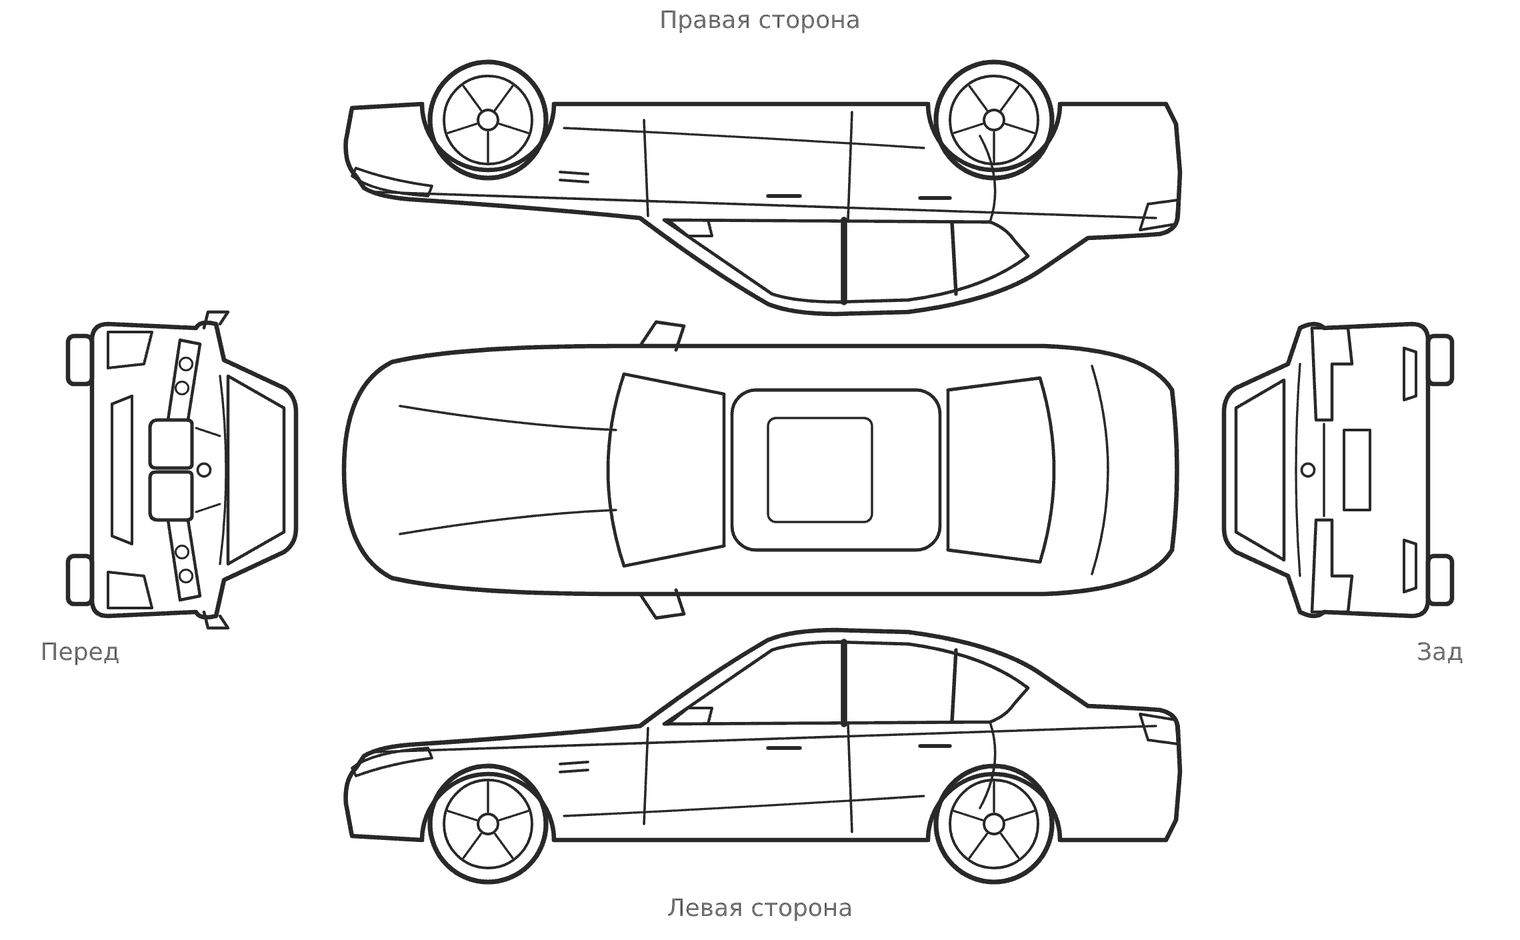
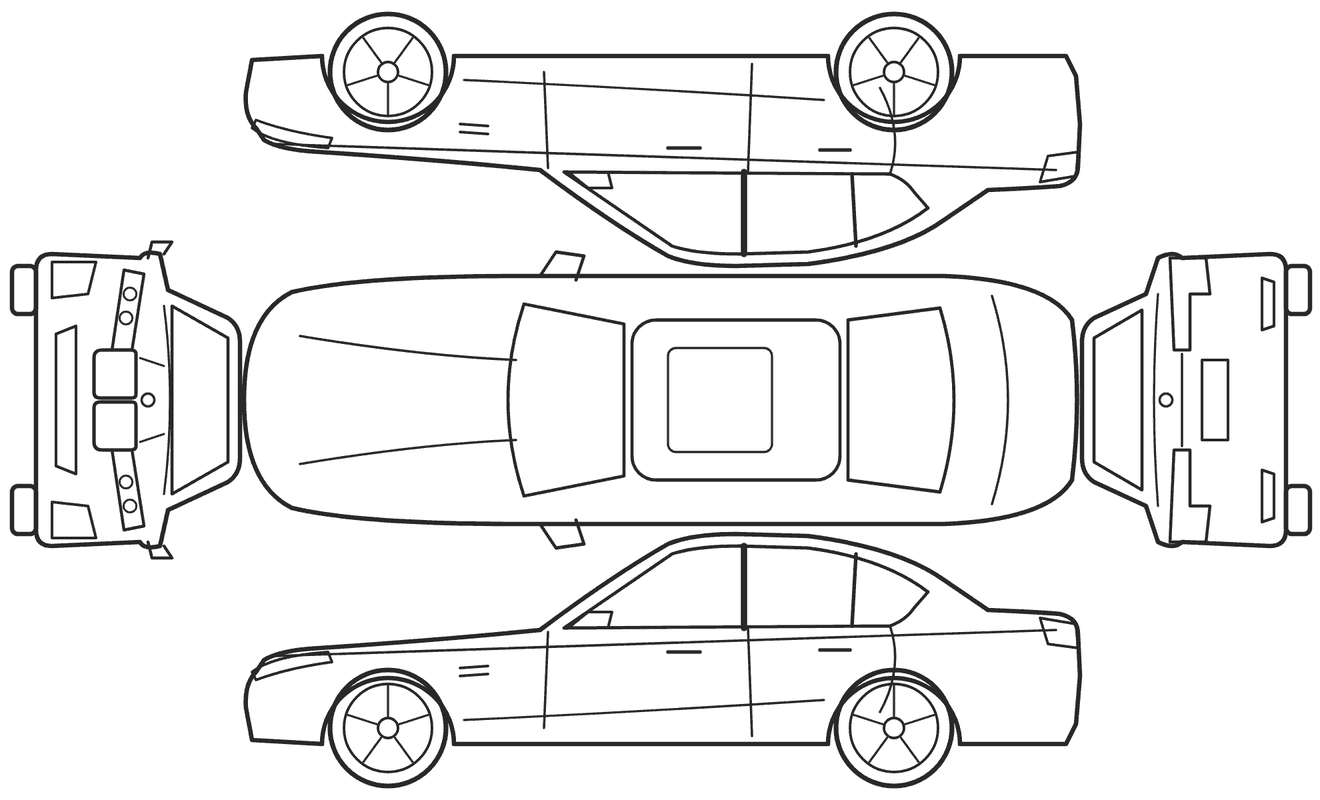
Лист приёма-передачи ТС: развёртка как на образце, представитель СТО из ЛК, дата выгрузки (0.41.8)
- Развёртка: бока, перед и зад вплотную к виду сверху.
- Представитель СТО — пользователь ЛК СТО, который выгружает лист.
- Дата листа — дата выгрузки; лист выдачи тоже формируется в момент выгрузки.
- Поле «Пробег» без линии.

Claude-Session: https://claude.ai/code/session_01RRGKiDbnSRuSkAXF8FjZhq

Changed region(s): [[0.0, 0.0, 1.0, 1.0], [0.4348, 0.0, 0.5591, 0.0312]]

diff --git a/front/src/features/requests/ClosingPanel.vue b/front/src/features/requests/ClosingPanel.vue
@@ -2,7 +2,7 @@
 import { computed, ref, watch } from 'vue';
 import { marketplaceApi } from '../../api/marketplace.js';
 import { formatDateTime, money } from '../../data/permissions.js';
-import { printBlob } from './handoverSheet.js';
+import { handoverSheet } from './handoverSheet.js';
 
 /*
  * Закрытие ЗР:
@@ -124,10 +124,11 @@ function markPaid() {
   return run(method, { ...payment.value });
 }
 
-async function printDoc(doc) {
+/** Лист приёма-передачи ТС (выдача): формируется в момент выгрузки — дата и представитель СТО из ЛК. */
+async function sheet(mode) {
   error.value = '';
   try {
-    printBlob(await marketplaceApi.requestDocumentPdf(doc.id));
+    await handoverSheet(props.request, 'out', mode);
   } catch (e) {
     error.value = e.message;
   }
@@ -166,8 +167,8 @@ async function download(doc) {
         </span>
       </div>
       <div class="closing-actions">
-        <button type="button" class="ghost-btn" :disabled="busy" @click="download(act)">Выгрузить в PDF</button>
-        <button type="button" class="ghost-btn" :disabled="busy" @click="printDoc(act)">Распечатать</button>
+        <button type="button" class="ghost-btn" :disabled="busy" @click="sheet('pdf')">Выгрузить в PDF</button>
+        <button type="button" class="ghost-btn" :disabled="busy" @click="sheet('print')">Распечатать</button>
         <small class="muted">Стороны, водитель, ТС и доверенность заполняются автоматически; пробег, отметки и подписи — от руки.</small>
       </div>
 

diff --git a/api/app/Services/ClosingDocumentService.php b/api/app/Services/ClosingDocumentService.php
@@ -62,7 +62,7 @@ final class ClosingDocumentService
             'repairCompletedAt' => $request->repair_completed_at?->toISOString(),
             'acceptanceAct' => $request->acceptanceAct?->number,
             'workOrder' => $request->workOrder?->number,
-            'sheet'    => $this->handoverSheet($request, 'out'),
+            'sheet'    => $this->handoverSheet($request, 'out', $user),
         ];
 
         $document = $this->store($request, $user, RequestDocumentType::TransferAct, $station, $customer, '0', '0', $payload);
@@ -456,10 +456,12 @@ final class ClosingDocumentService
     /**
      * Данные для предзаполнения «Листа приёма-передачи ТС».
      * in — приём ТС от Заказчика на СТО (APP-…/1), out — передача ТС от СТО Заказчику (APP-…/2).
+     * Дата листа — дата выгрузки; представитель СТО — пользователь ЛК СТО,
+     * который выгружает лист (для других ЛК — контактное лицо СТО).
      *
      * @return array<string, mixed>
      */
-    public function handoverSheet(RepairRequest $request, string $direction): array
+    public function handoverSheet(RepairRequest $request, string $direction, ?User $user = null): array
     {
         $request->loadMissing(['vehicleRecord', 'driverRecord', 'stationRecord.organization', 'customerOrganization', 'acceptanceAct', 'workOrder']);
         $vehicle = $request->vehicleRecord;
@@ -471,7 +473,7 @@ final class ClosingDocumentService
             'number'        => $in
                 ? ($request->acceptanceAct?->number ?? $request->numberWithPrefix('APP') . '/1')
                 : $request->numberWithPrefix(RequestDocumentType::TransferAct->prefix()) . RequestDocumentType::TransferAct->suffix(),
-            'date'          => $in ? $request->acceptanceAct?->created_at?->toDateString() : now()->toDateString(),
+            'date'          => now()->toDateString(),
             'requestNumber' => $request->number,
             'workOrder'     => $request->workOrder?->number,
             'acceptanceNumber' => $request->acceptanceAct?->number,
@@ -481,10 +483,15 @@ final class ClosingDocumentService
                 'address' => (string) (($stationRecord?->organization?->actual_address ?? '') ?: ($stationRecord?->address ?? '')),
             ],
             'driver'        => $this->driver($request),
-            'stationRepresentative' => [
-                'fullName' => (string) ($stationRecord?->contact ?? ''),
-                'phone'    => (string) ($stationRecord?->organization?->phone ?? ''),
-            ],
+            'stationRepresentative' => $user?->role === UserRole::Station
+                ? [
+                    'fullName' => $user->fullName(),
+                    'phone'    => (string) (($user->phone ?? '') ?: ($stationRecord?->organization?->phone ?? '')),
+                ]
+                : [
+                    'fullName' => (string) ($stationRecord?->contact ?? ''),
+                    'phone'    => (string) ($stationRecord?->organization?->phone ?? ''),
+                ],
             // В лист попадает только реально оформленная доверенность; иначе
             // № и дата заполняются от руки.
             'powerOfAttorney' => $this->issuedPowerOfAttorney($request),
@@ -498,9 +505,9 @@ final class ClosingDocumentService
     }
 
     /** PDF предзаполненного листа приёма-передачи ТС (для печати и подписи). */
-    public function handoverSheetPdf(RepairRequest $request, string $direction): string
+    public function handoverSheetPdf(RepairRequest $request, string $direction, ?User $user = null): string
     {
-        return Pdf::loadView('pdf.handover_sheet', ['sheet' => $this->handoverSheet($request, $direction)])
+        return Pdf::loadView('pdf.handover_sheet', ['sheet' => $this->handoverSheet($request, $direction, $user)])
             ->setPaper('a4', 'portrait')
             ->setOption('defaultFont', 'DejaVu Sans')
             ->output();

diff --git a/api/tests/Feature/Services/VehicleAcceptanceActTest.php b/api/tests/Feature/Services/VehicleAcceptanceActTest.php
@@ -208,7 +208,19 @@ final class VehicleAcceptanceActTest extends TestCase
         $this->assertSame('Петров Иван', $in['driver']['fullName']);
         $this->assertSame('Смирнов Алексей', $in['stationRepresentative']['fullName']);
         $this->assertSame(['name' => 'Kia Rio', 'plate' => 'А123ВС777', 'vin' => 'Z94C241BBLR123456', 'year' => 2020], $in['vehicle']);
+        $this->assertSame(now()->toDateString(), $in['date']);
         $this->assertSame($request->numberWithPrefix('APP') . '/2', $service->handoverSheet($request, 'out')['number']);
+
+        // Представитель СТО — пользователь ЛК СТО, который выгружает лист.
+        $stationUser = $this->user($stationOrganization, 'station');
+        $stationUser->forceFill(['last_name' => 'Соколов', 'first_name' => 'Максим', 'middle_name' => 'Николаевич'])->save();
+        $this->assertSame(
+            $stationUser->refresh()->fullName(),
+            $service->handoverSheet($request, 'out', $stationUser)['stationRepresentative']['fullName'],
+        );
+        $this->assertStringContainsString('Соколов', $stationUser->fullName());
+        // Для ЛК Заказчика/УК — контактное лицо СТО.
+        $this->assertSame('Смирнов Алексей', $service->handoverSheet($request, 'in', $customer)['stationRepresentative']['fullName']);
 
         $this->actingAs($customer);
         foreach (['in', 'out'] as $direction) {

diff --git a/api/app/Http/Controllers/ClosingDocumentController.php b/api/app/Http/Controllers/ClosingDocumentController.php
@@ -133,8 +133,8 @@ final class ClosingDocumentController
     public function handoverSheet(Request $request, string $id, string $direction): Response
     {
         $repairRequest = RepairRequest::resolveFor(UserDto::fromUserModel($request->user()), $id);
-        $sheet = $this->documents->handoverSheet($repairRequest, $direction);
-        $pdf = $this->documents->handoverSheetPdf($repairRequest, $direction);
+        $sheet = $this->documents->handoverSheet($repairRequest, $direction, $request->user());
+        $pdf = $this->documents->handoverSheetPdf($repairRequest, $direction, $request->user());
         $name = str_replace('/', '-', (string) $sheet['number']) . ' Лист приёма-передачи ТС.pdf';
 
         return response($pdf, 200, [

diff --git a/api/resources/views/pdf/handover_sheet.blade.php b/api/resources/views/pdf/handover_sheet.blade.php
@@ -84,7 +84,7 @@
             <td><b>{{ ($v['plate'] ?? '') ?: '—' }}</b></td>
             <td><b>{{ ($v['vin'] ?? '') ?: '—' }}</b></td>
             <td><b>{{ ($v['year'] ?? '') ?: '—' }}</b></td>
-            <td><span class="f"></span></td>
+            <td></td>
             <td>{!! $cb !!}0 {!! $cb !!}¼ {!! $cb !!}½ {!! $cb !!}¾ {!! $cb !!}1</td>
         </tr>
     </table>
